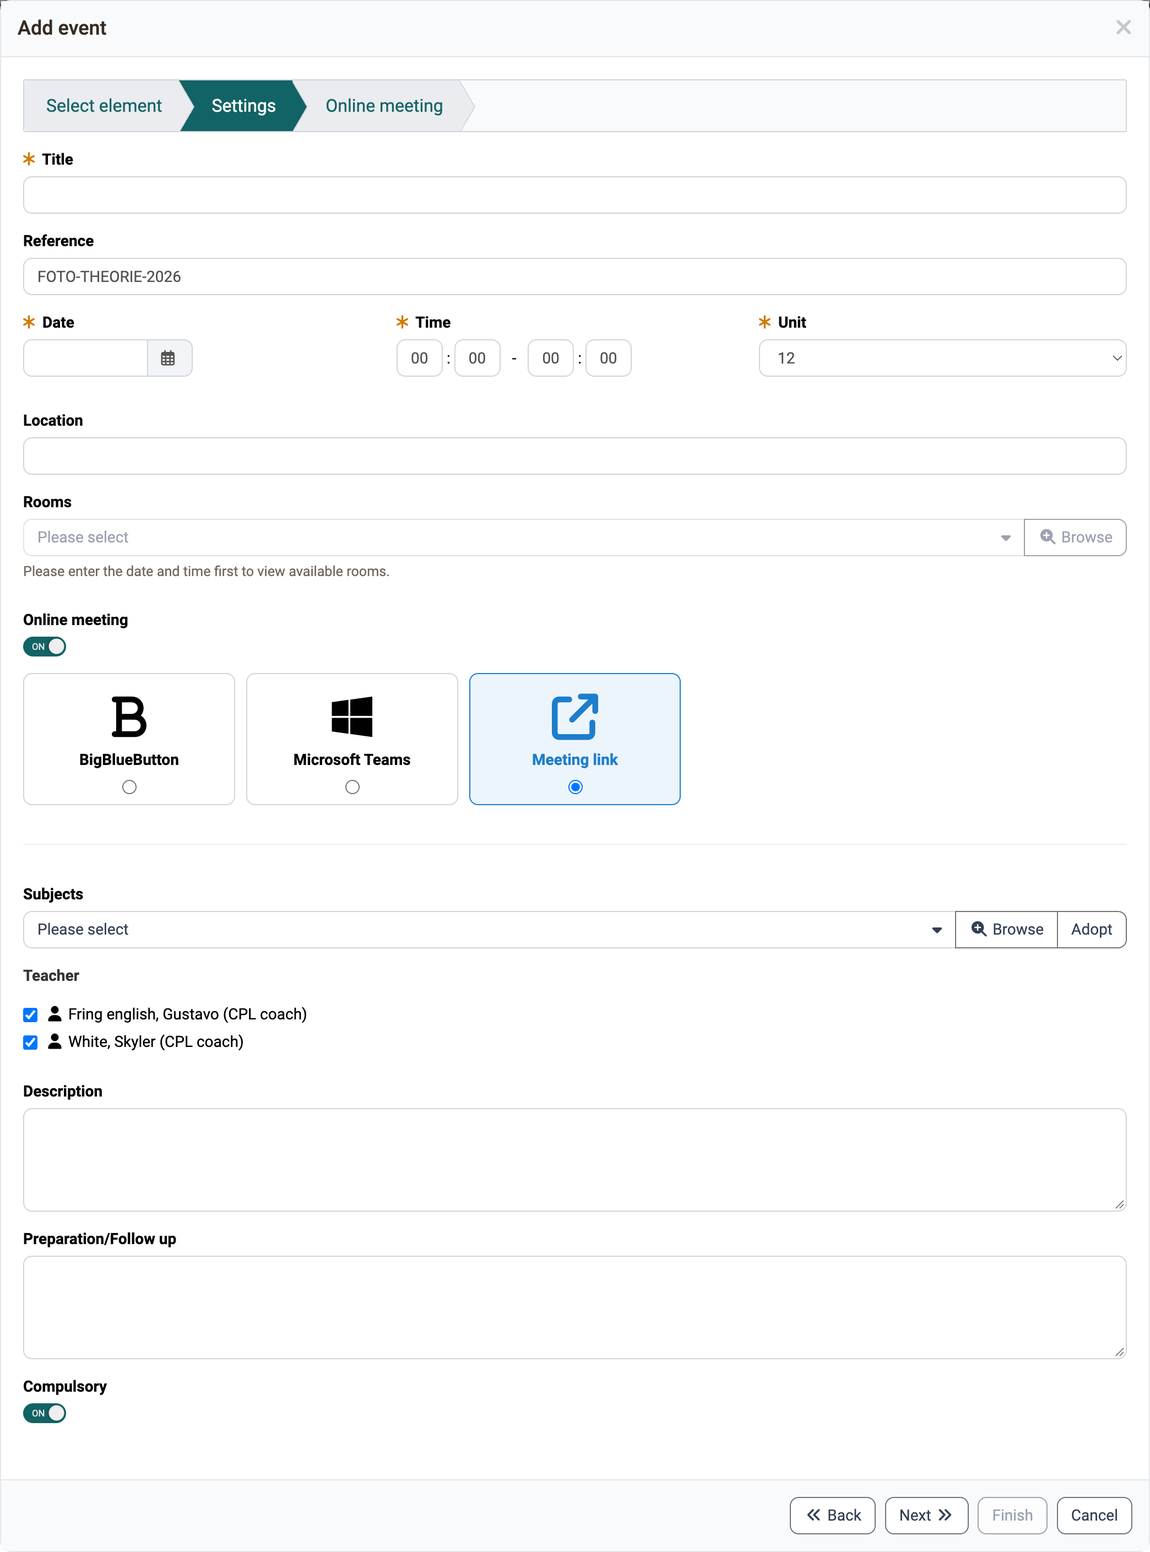
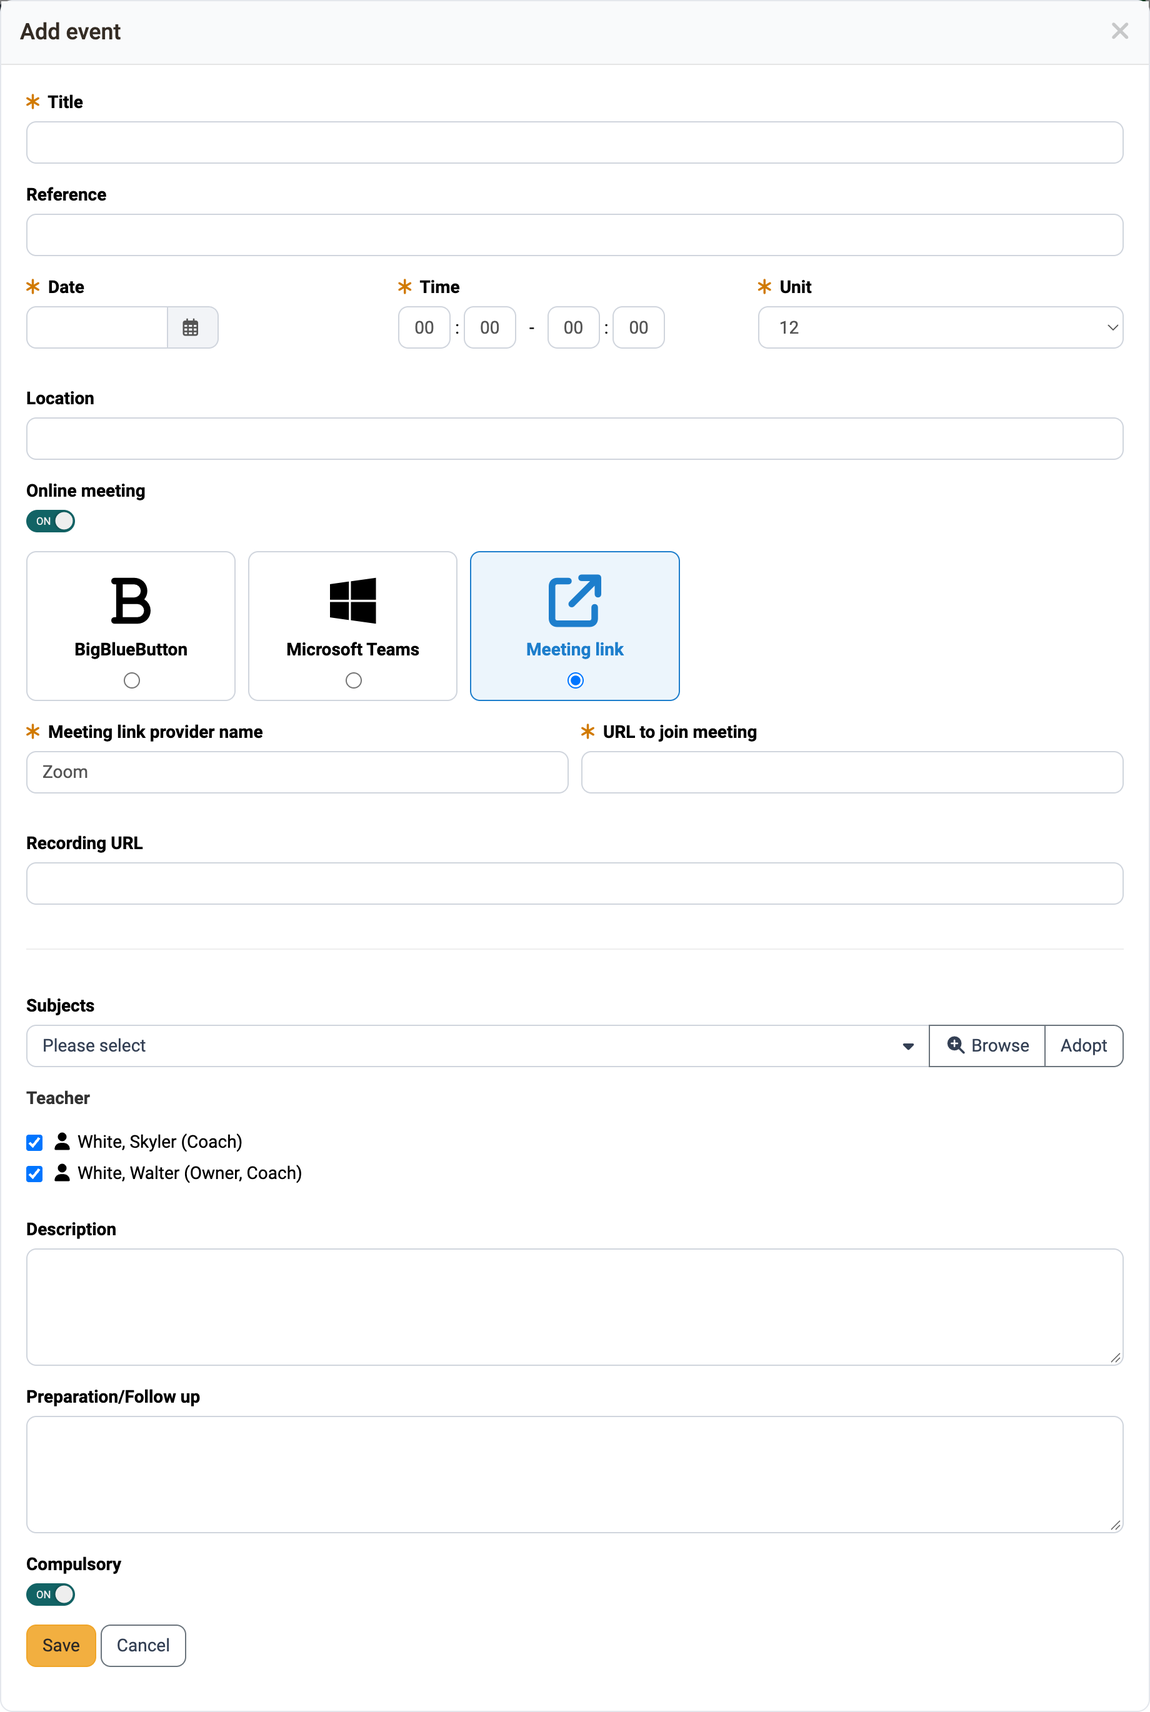
OODOC-566 (EN), Termine und Absenzen im Kurs, zweiter Teil mit englischen Bildern versehen.

diff --git a/sites/manual_user/docs/learningresources/Events_and_absences.md b/sites/manual_user/docs/learningresources/Events_and_absences.md
@@ -41,7 +41,7 @@ In the "Events" tab, events can be added to the course and displayed filtered ac
 
 In the 3-dot menu at the end of each line, you will find further options for an event. Here you can edit, copy, delete the event, change it to an online meeting, mark it as an exam, create PDF lists and generate further downloads. Completed events can also be reopened.
 
-![The 3-dot menu of a completed event offers Absence list, Attendance list, Log, Export and Reopen event, in a course of an implementation](assets/events_and_absences_event_menu_v1_en.png){ class="shadow lightbox" }
+![The 3-dot menu of a scheduled event offers Edit, Copy, Change to an online meeting, Mark as exam, the lists, Log, Export and Delete, in the course toolbar under Events](assets/events_and_absences_event_menu_v1_en.png){ class="shadow lightbox" }
 
 Use the column selection (gear icon) to show further columns. If the module "Rooms" is activated, the column "Rooms" with the booked rooms of the event is available there. It is hidden by default.
 
@@ -91,7 +91,7 @@ Rooms are assigned in the Course Planner. A standalone course therefore shows no
 
 To add (further) events, use the "Add event" button at the top right above the list in the "Events" tab.
 
-![The "Add event" button at the top right above the event list in the "Events" tab, here in an implementation in the Course Planner](assets/events_and_absences_tab_events_create1_v1_en.png){ class="shadow lightbox" }
+![The "Add event" button at the top right above the event list in the "Events" tab of a standalone course](assets/events_and_absences_tab_events_create1_v1_en.png){ class="shadow lightbox" }
 
 !!! info "Important"
 
@@ -99,7 +99,7 @@ To add (further) events, use the "Add event" button at the top right above the l
 
 A popup opens for entering all details of the event. 
 
-![Input mask for a new event with the mandatory fields Title, Date, Time and Unit, the toggle Online meeting with Meeting link and the switch Compulsory, wizard Add event in the Course Planner](assets/events_and_absences_tab_events_create2_v3_en.png){ class="shadow lightbox" }
+![Input mask for a new event with the mandatory fields Title, Date, Time and Unit, the toggle Online meeting with Meeting link and the switch Compulsory, popup Add event in the course](assets/events_and_absences_tab_events_create2_v3_en.png){ class="shadow lightbox" }
 
  **Title**: Give the event a meaningful name.
 
@@ -119,7 +119,7 @@ A popup opens for entering all details of the event.
 
  **Location**: This specifies where this event takes place. This can be, for example, an on-site location or the exact room designation.
 
- **Online meeting**: If the event is to take place online, switch on the toggle button "Online meeting". Available options are BigBlueButton, Microsoft Teams and "Meeting link". The meeting link covers other providers, for example Zoom. For this option, enter the "Meeting provider name" and the "URL to join the meeting".<br>
+ **Online meeting**: If the event is to take place online, switch on the toggle button "Online meeting". Available options are BigBlueButton, Microsoft Teams and "Meeting link". The meeting link covers other providers, for example Zoom. For this option, enter the "Meeting link provider name" and the "URL to join meeting".<br>
  The online meeting takes over the title, time and people from the event. You open it later in the event list via "Join online meeting".
 Learners have access via the calendar or the "Events" icon in the toolbar.
 
@@ -145,7 +145,7 @@ Learners have access via the calendar or the "Events" icon in the toolbar.
 As soon as at least one event is selected in the first column, the buttons for copying and deleting events appear above the list of events.<br>
 Alternatively, the options for copying and deleting can be accessed under the 3 dots at the end of a line.
 
-![With an event selected, the buttons "Copy" and "Delete" appear above the list; the same options are available in the 3-dot menu at the end of the line](assets/events_and_absences_tab_events_copy_v1_de.png){ class="shadow lightbox" }
+![With an event selected, the buttons "Copy" and "Delete" appear above the list; the same options are available in the 3-dot menu at the end of the line](assets/events_and_absences_tab_events_copy_v1_en.png){ class="shadow lightbox" }
 
 [To the top of the page ^](#course_admin_events_and_absences)
 
@@ -156,7 +156,7 @@ Alternatively, the options for copying and deleting can be accessed under the 3 
 
 It is also possible to import events that have been exported elsewhere in OpenOlat. To do this, click on the small arrow next to the "Add event" button in the "Events" tab.
 
-![The small arrow next to the "Add event" button opens the option "Import events"](assets/events_and_absences_tab_events_import_v1_de.png){ class="shadow lightbox" }
+![The small arrow next to the "Add event" button opens the option "Import events"](assets/events_and_absences_tab_events_import_v1_en.png){ class="shadow lightbox" }
 
 [To the top of the page ^](#course_admin_events_and_absences)
 
@@ -166,7 +166,7 @@ It is also possible to import events that have been exported elsewhere in OpenOl
 
 Under the 3 dots, an event can also be marked as an exam. For an event marked this way, for example the [Safe Exam Browser](../../manual_how-to/SEB/SEB.md) can be activated.
 
-![The option "Mark as exam" in the 3-dot menu at the end of the event line in the "Events" tab](assets/events_and_absences_tab_events_mark_as_exam_v1_de.png){ class="shadow lightbox" }
+![The option "Mark as exam" in the 3-dot menu at the end of the event line in the "Events" tab](assets/events_and_absences_tab_events_mark_as_exam_v1_en.png){ class="shadow lightbox" }
 
 [To the top of the page ^](#course_admin_events_and_absences)
 
@@ -194,11 +194,11 @@ Events are closed via the [event icon in the toolbar](../learningresources/Toolb
 
 An already closed event can be reopened by course owners. You will find the option "Reopen event" under the 3 dots in the line of an event.
 
-![The option "Reopen event" in the 3-dot menu of a done event](assets/events_and_absences_reopen_event1_v1_de.png){ class="shadow lightbox" }
+![The option "Reopen event" in the 3-dot menu of a done event](assets/events_and_absences_reopen_event1_v1_en.png){ class="shadow lightbox" }
 
 Alternatively, an event can also be reopened via the book icon (edit absence).
 
-![The book icon "Edit absence" opens the absence recording; the button "Reopen event" opens the closed event again](assets/Termin_wiederoeffnen_20.jpg){ class="shadow lightbox" }
+![The book icon "Edit absence" opens the absence recording; the button "Reopen event" opens the closed event again](assets/events_and_absences_reopen_event2_v1_en.png){ class="shadow lightbox" }
 
 [To the top of the page ^](#course_admin_events_and_absences)
 
@@ -208,9 +208,9 @@ Alternatively, an event can also be reopened via the book icon (edit absence).
 
 As soon as at least one event is selected in the first column, the button "Manage teachers" appears above the list of events.
 
-![With an event selected, the button "Manage teachers" appears above the event list next to the buttons "Copy" and "Delete"](assets/events_and_absences_tab_events_teachers1_v1_de.png){ class="shadow lightbox" }
+![With an event selected, the button "Manage teachers" appears above the event list next to the buttons "Copy" and "Delete"](assets/events_and_absences_tab_events_teachers1_v1_en.png){ class="shadow lightbox" }
 
-![In the "Manage teachers" dialog, teachers are assigned to or removed from individual events via checkbox or from all events via the buttons](assets/events_and_absences_tab_events_teachers2_v1_de.png){ class="shadow lightbox" }
+![In the "Manage teachers" dialog, teachers are assigned to or removed from individual events via checkbox or from all events via the buttons](assets/events_and_absences_tab_events_teachers2_v1_en.png){ class="shadow lightbox" }
 
 [To the top of the page ^](#course_admin_events_and_absences)
 
@@ -221,7 +221,7 @@ As soon as at least one event is selected in the first column, the button "Manag
 
 When the detail view of an event is open (after clicking on the + at the beginning of the relevant line), an icon with 3 dots is displayed at the bottom. There you will find the option to exclude the participants from the selected event.
 
-![The 3-dot menu at the bottom of the event detail view contains the option "Exclude participants"](assets/events_and_absences_tab_events_exclude_participants_v1_de.png){ class="shadow lightbox" }
+![The 3-dot menu at the bottom of the event detail view contains the option "Exclude participants"](assets/events_and_absences_tab_events_exclude_participants_v1_en.png){ class="shadow lightbox" }
 
 [To the top of the page ^](#course_admin_events_and_absences)
 
@@ -233,7 +233,7 @@ When the detail view of an event is open (after clicking on the + at the beginni
 
 In the "Participants" tab you get an overview of all participants of the course or the selected groups. (Excluding owners and coaches, unless they are additionally registered in the role participant.) The list can be printed via the "Print" button.
 
-![The participant list shows per person first admission, units, attended, not authorized, authorized, dispensed and the coloured progress bar](assets/Termine_Tab_TN_20.png){ class="shadow lightbox" }
+![The participant list shows per person first admission, units, attended, not excused, authorized, dispensed, the coloured bar and the presence rate](assets/events_and_absences_tab_participants_v1_en.png){ class="shadow lightbox" }
 
 **First admission**<br>
 The first admission defines when the participant started the course.
@@ -245,7 +245,7 @@ Here the maximum number of units a person can achieve is displayed, regardless o
 Here it is displayed at how many units the person was present. The number of closed (done) absences is taken into account.
 
 
-**Not authorized**<br>
+**Not excused**<br>
 Units for which the person was marked as not authorized.
 
 **Authorized**<br>
@@ -254,8 +254,8 @@ Units for which the person was marked as authorized. The reason can be specified
 **Dispensed**<br>
 Units for which the person was dispensed. Whether dispensations are counted as attended is determined by the configuration of the absence management.
 
-**Progress**<br>
-The progress shows attendance graphically. Green symbolizes attendance, orange authorized, red absent or not authorized, and blue dispensed units.
+**Grafik**<br>
+The bar in the column "Grafik" shows attendance graphically. Green symbolizes attendance, orange authorized, red absent or not authorized, and blue dispensed units.
 
 :o_icon_o_midwarn:<br>
 The attention column with this icon shows whether the defined attendance rate has been reached. The red icon :o_icon_o_icon_error: means that the rate is below the required limit. The warning icon :o_icon_o_icon_warning: appears when the rate is less than five percentage points above the limit.
@@ -274,7 +274,7 @@ If changes are not immediately visible, please log out and log in again.
 
 The threshold for mandatory attendance set for the course in general can be adjusted individually. To do this, select the person in question in the "Participants" tab and click on the edit icon.
 
-![In the "Edit participant's rate" dialog, the personal rate and the first admission of a person are adjusted; the course's rate is displayed](assets/events_and_absences_tab_participants_personal_rate_v1_de.png){ class="shadow lightbox" }
+![In the "Edit participant's rate" dialog, the personal rate and the first admission of a person are adjusted; the course's rate is displayed](assets/events_and_absences_tab_participants_personal_rate_v1_en.png){ class="shadow lightbox" }
 
 [To the top of the page ^](#course_admin_events_and_absences)
 
@@ -285,7 +285,7 @@ The threshold for mandatory attendance set for the course in general can be adju
 
 If appeals have been submitted, you can get an overview under this tab as course owner. Filters help you with a larger number of appeals.
 
-![The "Appeals" tab lists submitted appeals and offers a filter by Pending, Approved and Rejected](assets/events_and_absences_tab_appeals1_v1_de.png){ class="shadow lightbox" }
+![The "Appeals" tab lists submitted appeals and offers a filter by Pending, Approved and Rejected](assets/events_and_absences_tab_appeals1_v1_en.png){ class="shadow lightbox" }
 
 Appeals are usually processed by absence managers, who can access all appeals across courses in the central [cross-course absence management](../area_modules/Absence_Management.md). 
 
